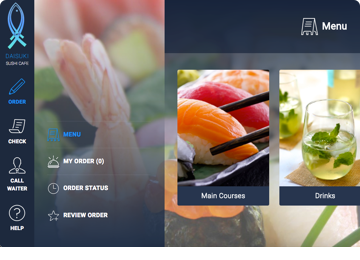
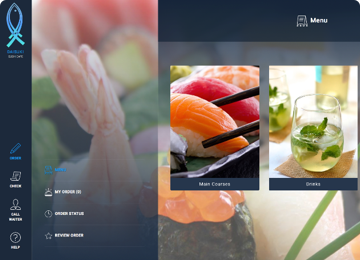
Fixed Daisuki Size

diff --git a/js/template/script.js b/js/template/script.js
@@ -30,6 +30,12 @@ $(document).ready(function() {
 	$('ul#menu a, ul.dropdown-menu a, a#top').smoothScroll();
 
 	// WayPoint Discover App
+	$("#top_header").waypoint(function () {
+		$('.logo').addClass('fadeInRight animated');
+		$('#hero_text').addClass('fadeInLeft animated');
+	}, { offset: '100%' });
+
+	// WayPoint Discover App
 	$("#app_content").waypoint(function() {
 		$('#app_content').addClass('fadeInLeft animated');
 		$('.app_image').addClass('fadeInRight animated');
